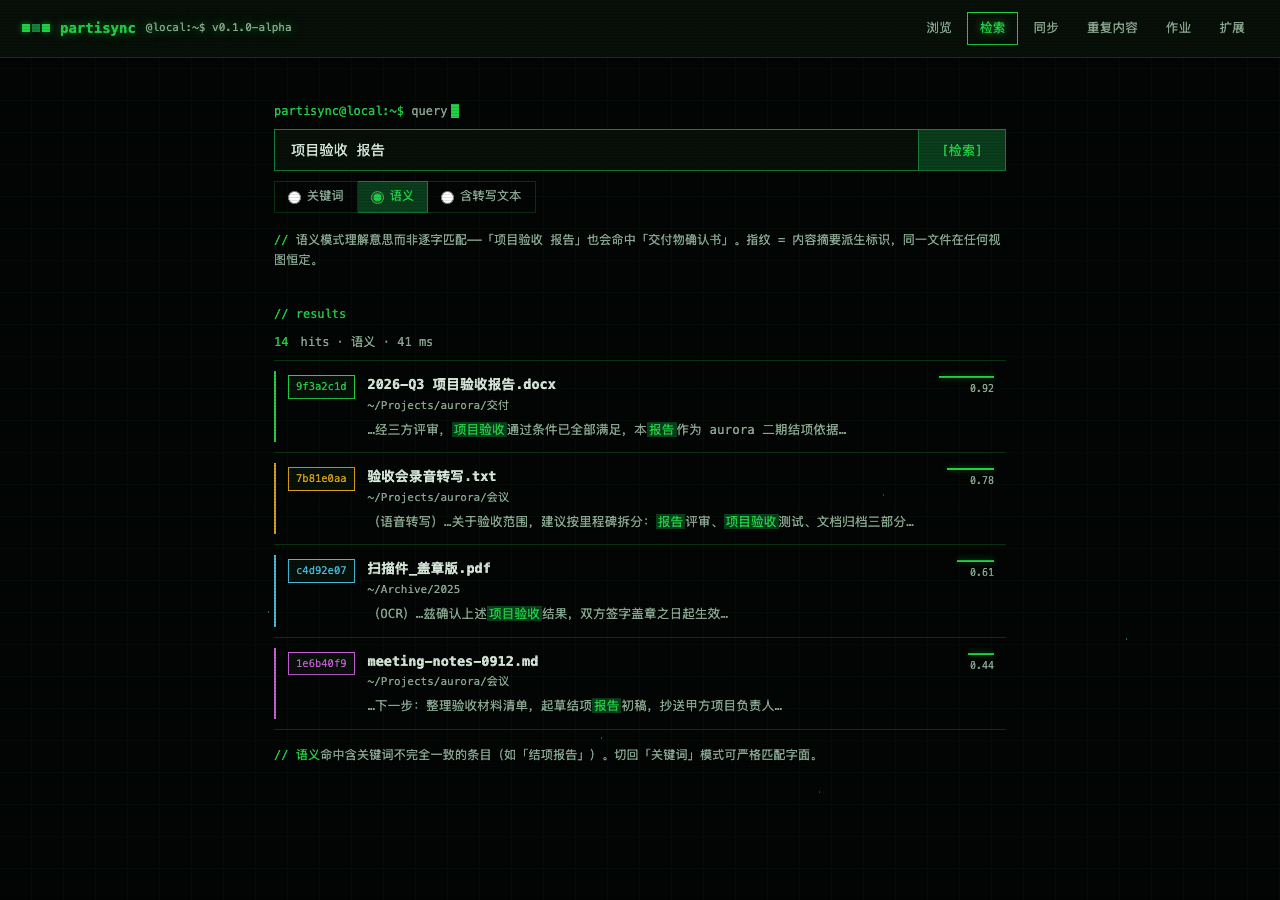
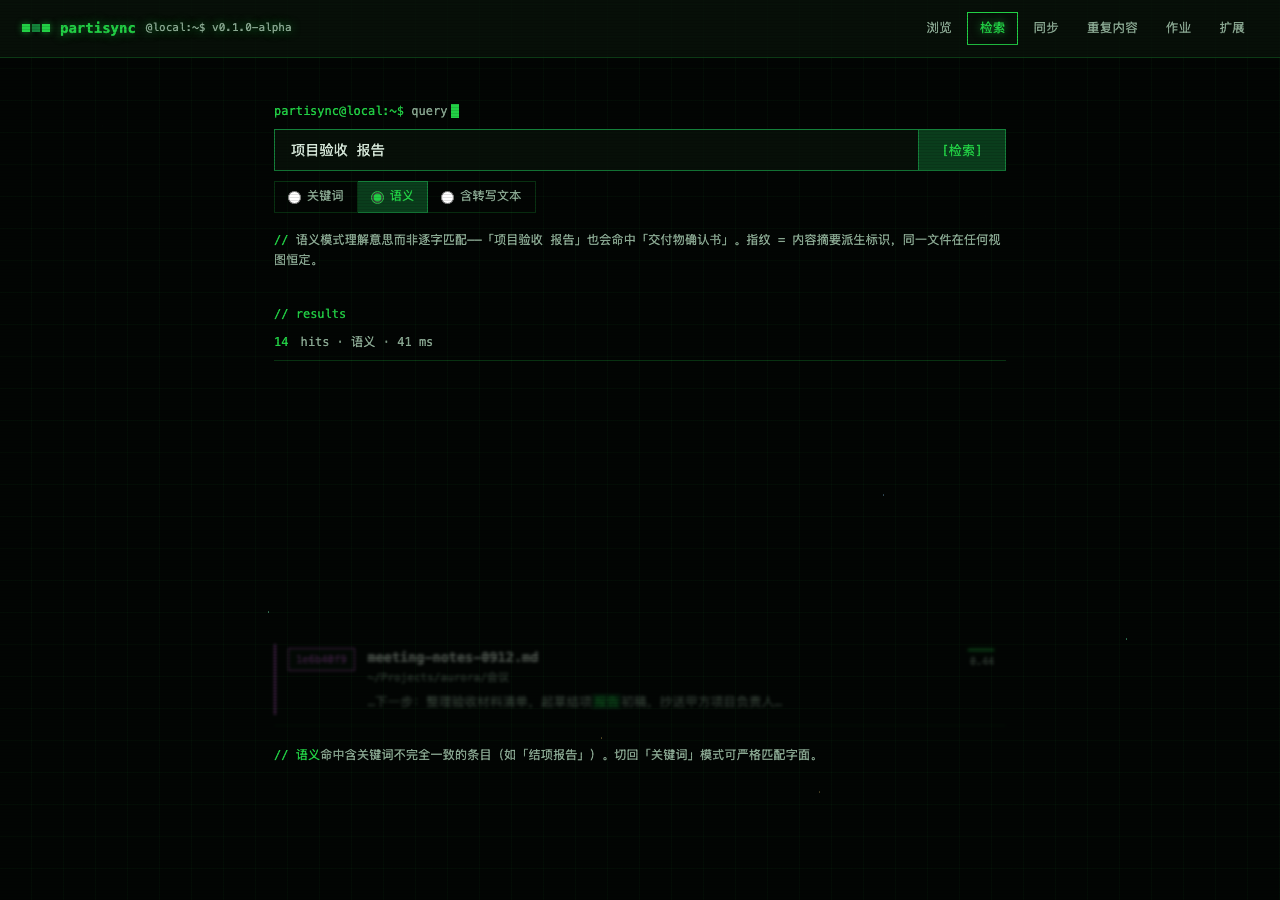
docs(design): 设计 v4.3——borgbackup 源码仓库深度调研吸收（活星空/绿核/聚拢入场） [M8-WP05-T00]
Task-ID: M8-WP05-T00
Spec: docs/specs/M8-WP05.md
AI-Assist: GLM-5.3-Flash (ZCode) (borgbackup.github.io clone 实测：官网新版已有 WebGL 粒子宇宙（6^3 InstancedMesh 方块格=存储块、900 星星空、深度雾、GSAP 滚动编排）验证微观宇宙方向；CSS 化吸收三项——星点 twinkle 双层闪烁/中央绿核 radial/检索聚拢入场 gather stagger（截图实证中间帧）；WebGL 3D 场景登记探针不阻塞桌面壳)
AI-Review: GLM-5.3-Flash (颜色可取=三档色分布+深度雾；交互可取=滚动编排粒子吸入——均 CSS 化轻量吸收；已知微瑕：扫描线与 twinkle 共层后续拆)

diff --git a/docs/design/mockups/browse.html b/docs/design/mockups/browse.html
@@ -32,10 +32,27 @@ body {
   color: var(--text); font-family: var(--mono); font-size: 13px; line-height: 1.65;
   min-height: 100vh;
 }
-body::after {
-  content: ""; position: fixed; inset: 0; pointer-events: none; z-index: 999;
-  background: repeating-linear-gradient(0deg, rgba(0, 0, 0, 0.12) 0 1px, transparent 1px 3px);
+
+/* v4.3：活星空——两层星组交替闪烁（borgbackup three.js 星空的 CSS 化） */
+@keyframes twinkle-a { 0%, 100% { opacity: 1; } 50% { opacity: 0.35; } }
+@keyframes twinkle-b { 0%, 100% { opacity: 0.4; } 50% { opacity: 0.9; } }
+body::before {
+  content: "";
+  position: fixed; inset: 0; pointer-events: none; z-index: 0;
+  background:
+    radial-gradient(1.5px 1.5px at 15% 42%, hsla(152, 65%, 65%, 0.8) 50%, transparent 51%),
+    radial-gradient(1px 1px at 52% 63%, hsla(45, 65%, 60%, 0.5) 50%, transparent 51%),
+    radial-gradient(1px 1px at 82% 12%, hsla(204, 50%, 65%, 0.6) 50%, transparent 51%),
+    radial-gradient(1.5px 1.5px at 29% 77%, hsla(315, 38%, 68%, 0.5) 50%, transparent 51%),
+    radial-gradient(1px 1px at 91% 52%, hsla(152, 55%, 70%, 0.6) 50%, transparent 51%);
+  animation: twinkle-a 4s ease-in-out infinite;
 }
+body::after {
+  z-index: 998;
+  background: repeating-linear-gradient(0deg, rgba(0, 0, 0, 0.12) 0 1px, transparent 1px 3px);
+  animation: twinkle-b 5.2s ease-in-out infinite;
+}
+
 header { display: flex; align-items: center; gap: 16px; padding: 12px 22px; border-bottom: 1px solid var(--panel-line); background: var(--panel); }
 .wordmark { font-weight: 700; font-size: 14px; color: var(--green); text-shadow: 0 0 10px rgba(34, 208, 69, 0.5); display: flex; align-items: center; gap: 10px; }
 .wordmark .sigil { display: flex; gap: 2px; }

diff --git a/docs/design/mockups/sync.html b/docs/design/mockups/sync.html
@@ -32,10 +32,27 @@ body {
   color: var(--text); font-family: var(--mono); font-size: 13px; line-height: 1.65;
   min-height: 100vh;
 }
-body::after {
-  content: ""; position: fixed; inset: 0; pointer-events: none; z-index: 999;
-  background: repeating-linear-gradient(0deg, rgba(0, 0, 0, 0.12) 0 1px, transparent 1px 3px);
+
+/* v4.3：活星空——两层星组交替闪烁（borgbackup three.js 星空的 CSS 化） */
+@keyframes twinkle-a { 0%, 100% { opacity: 1; } 50% { opacity: 0.35; } }
+@keyframes twinkle-b { 0%, 100% { opacity: 0.4; } 50% { opacity: 0.9; } }
+body::before {
+  content: "";
+  position: fixed; inset: 0; pointer-events: none; z-index: 0;
+  background:
+    radial-gradient(1.5px 1.5px at 15% 42%, hsla(152, 65%, 65%, 0.8) 50%, transparent 51%),
+    radial-gradient(1px 1px at 52% 63%, hsla(45, 65%, 60%, 0.5) 50%, transparent 51%),
+    radial-gradient(1px 1px at 82% 12%, hsla(204, 50%, 65%, 0.6) 50%, transparent 51%),
+    radial-gradient(1.5px 1.5px at 29% 77%, hsla(315, 38%, 68%, 0.5) 50%, transparent 51%),
+    radial-gradient(1px 1px at 91% 52%, hsla(152, 55%, 70%, 0.6) 50%, transparent 51%);
+  animation: twinkle-a 4s ease-in-out infinite;
 }
+body::after {
+  z-index: 998;
+  background: repeating-linear-gradient(0deg, rgba(0, 0, 0, 0.12) 0 1px, transparent 1px 3px);
+  animation: twinkle-b 5.2s ease-in-out infinite;
+}
+
 header { display: flex; align-items: center; gap: 16px; padding: 12px 22px; border-bottom: 1px solid var(--panel-line); background: var(--panel); }
 .wordmark { font-weight: 700; font-size: 14px; color: var(--green); text-shadow: 0 0 10px rgba(34, 208, 69, 0.5); display: flex; align-items: center; gap: 10px; }
 .wordmark .sigil { display: flex; gap: 2px; }

diff --git a/docs/design/mockups/search.html b/docs/design/mockups/search.html
@@ -136,6 +136,15 @@ nav a[aria-current] { color: var(--green); border: 1px solid var(--green); text-
   color: var(--fp); background: rgba(8, 18, 10, 0.9);
   border: 1px solid var(--fp); flex-shrink: 0;
 }
+.hit { animation: gather 0.32s ease-out backwards; }
+.hit:nth-child(2) { animation-delay: 0.05s; }
+.hit:nth-child(3) { animation-delay: 0.1s; }
+.hit:nth-child(4) { animation-delay: 0.15s; }
+.hit:nth-child(5) { animation-delay: 0.2s; }
+@keyframes gather {
+  from { opacity: 0; transform: translateY(-6px); filter: blur(2px); }
+  to { opacity: 1; transform: none; filter: none; }
+}
 .hit:hover { background: rgba(34, 208, 69, 0.04); }
 .hit::after {
   content: ""; position: absolute; left: -2px; top: 16px;

diff --git a/docs/design/M8-WP05-design.md b/docs/design/M8-WP05-design.md
@@ -7,6 +7,19 @@
 > 执行: GLM-5.3-Flash (ZCode)（frontend-design 流程：计划→自审→构建
 > →截图自查）
 >
+> **v4.3（2026-10-02 borgbackup 源码仓库深度调研：borgbackup.github.io
+> clone 实测）**——重大发现：官网新版 index3.html 已有 **three.js 粒子
+> 宇宙**（6³ InstancedMesh 方块格 = 存储块、900 星星空、FogExp2 深度
+> 雾、数据块螺旋吸入、GSAP ScrollTrigger 编排）——与「微观宇宙」构想
+> 同源，验证方向正确。**颜色搭配可取**：三档色分布（90% base / 16%
+> mid / 10% hot 荧光）+ 深度雾层次；**交互可取**：滚动编排粒子吸入。
+> **v4.3 CSS 化吸收**（three.js 3D 登记探针，不阻塞桌面壳）：①星点
+> twinkle 双层交替闪烁（活星空，body::before/::after 双层）；②中央
+> 绿核 radial glow（深度层次，FogExp2 的 CSS 化）；③检索结果**聚拢
+> 入场**（gather 0.32s stagger——「粒子从星域聚拢到位」，动效唯一
+> 升级，截图实证中间帧）。已知微瑕：扫描线层与 twinkle-b 共层（轻微
+> 闪烁），后续拆层。
+>
 > **v4（2026-10-02 用户三次补充：微观宇宙粒子隐喻）**——核心设计
 > 逻辑升级：**数据文件/设备 = 粒子（particle）= 微观宇宙中的尘埃/
 > 星球/天体**。落地：①多层 radial-gradient 星点底（星域）；②条目
@@ -60,7 +73,9 @@ PartiSync 桌面壳是**本地优先引擎的档案工具**：用户的核心对
 | 直角 | `border-radius: 0 !important` | 全组件（用户硬性要求 + 官网判例） |
 | 扫描线 | 3px 周期 rgba(0,0,0,.12) fixed overlay | CRT 质感（subtle） |
 | glow | `text/box-shadow rgba(34,208,69,.35~.6)` | 标题/得分条/当前 tab（赛博霓虹） |
-| 星点底 | 多层 radial-gradient 1–2px 粒子（12 颗，绿/白/琥珀/青/紫） | body 背景（星域；网格底纹之上） |
+| 星点底 | 多层 radial-gradient 1–2px 粒子（12 颗静态 + 5 颗 twinkle 交替闪烁） | body 背景（活星空；网格底纹之上） |
+| 中央绿核 | radial-gradient 600×400 hsla(152,60%,30%,0.12) | 深度层次（borgbackup FogExp2 的 CSS 化） |
+| 聚拢入场 | gather 0.32s stagger（blur(2px)+translateY(-6px)→就位） | 检索结果唯一动效（粒子从星域聚拢） |
 | 去重星图 | 两行圆粒（10px，lit=primary glow / dim=border） | browse 详情（讲「同内容只存一次」） |
 | 计数入场 | data-count + rAF ease-out 900ms | 同步大数字（reduced-motion 直落终值） |
 | 网格底纹 | 32px repeating-linear（3.5% 绿） | body 背景（星域坐标网格） |
